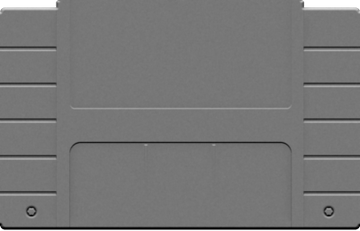
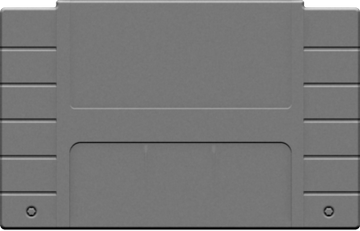
SNES NTSC cart: bevelled side edges, rounded step at the top, no specks in the window
Claude-Session: https://claude.ai/code/session_0196AMJuJq2G4gsNtTtygQSD

Changed region(s): [[0.9778, 0.0303, 1.0, 0.9697], [0.0, 0.0606, 0.0306, 0.9697], [0.1528, 0.0, 0.8556, 0.0303]]

diff --git a/tools/carts/snes_render.py b/tools/carts/snes_render.py
@@ -42,7 +42,12 @@ def grey3(g): return np.repeat(g[..., None], 3, 2)
 # the raised centre only stands out at the top: the bottom is one straight edge (Roy's photo)
 centre = rect(0.156, 0.0, 0.844, 1.0, 0.007)
 cart = rect(0.0, 0.032, 1.0, 0.993, 0.014) | rect(0.156, 0.0, 0.844, 0.5, 0.007)
-dist = nd.distance_transform_edt(cart)
+# a small fillet where the raised centre steps down to the side pieces, not a hard inner corner
+fr = int(0.006 * w)
+fy, fx = np.mgrid[-fr:fr + 1, -fr:fr + 1]
+cart = nd.binary_closing(np.pad(cart, fr), fx * fx + fy * fy <= fr * fr)[fr:-fr, fr:-fr]
+# padded, so the edges on the image border get the same bevel as the rest
+dist = nd.distance_transform_edt(np.pad(cart, 1))[1:-1, 1:-1]
 edge = np.clip(dist / (3.0 * SS), 0, 1) ** 0.5
 
 def gamebit(u, v, height):
@@ -72,6 +77,7 @@ height -= window * 2.6
 yy, xx = np.mgrid[0:h, 0:w]
 for u in (0.405, 0.594):
     t = np.clip((V(0.854) - yy) / (V(0.854) - V(0.627)), 0, 1)
+    t *= np.clip((yy - V(0.627)) / (V(0.66) - V(0.627)), 0, 1)  # eases in, no bright speck at the top
     ridge = (np.abs(xx - U(u)) < 0.004 * w) & (yy > V(0.627)) & (yy < V(0.854)) & window
     height += ridge * t * 1.6
 gaps = gamebit(0.087, 0.917, height) | gamebit(0.913, 0.917, height)
